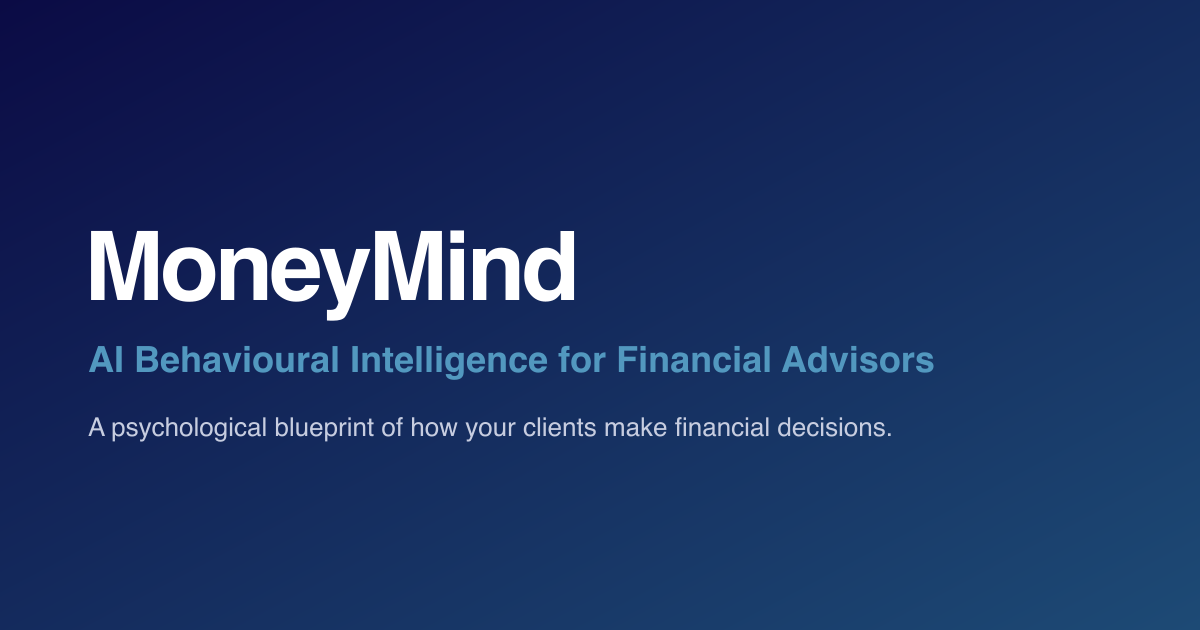
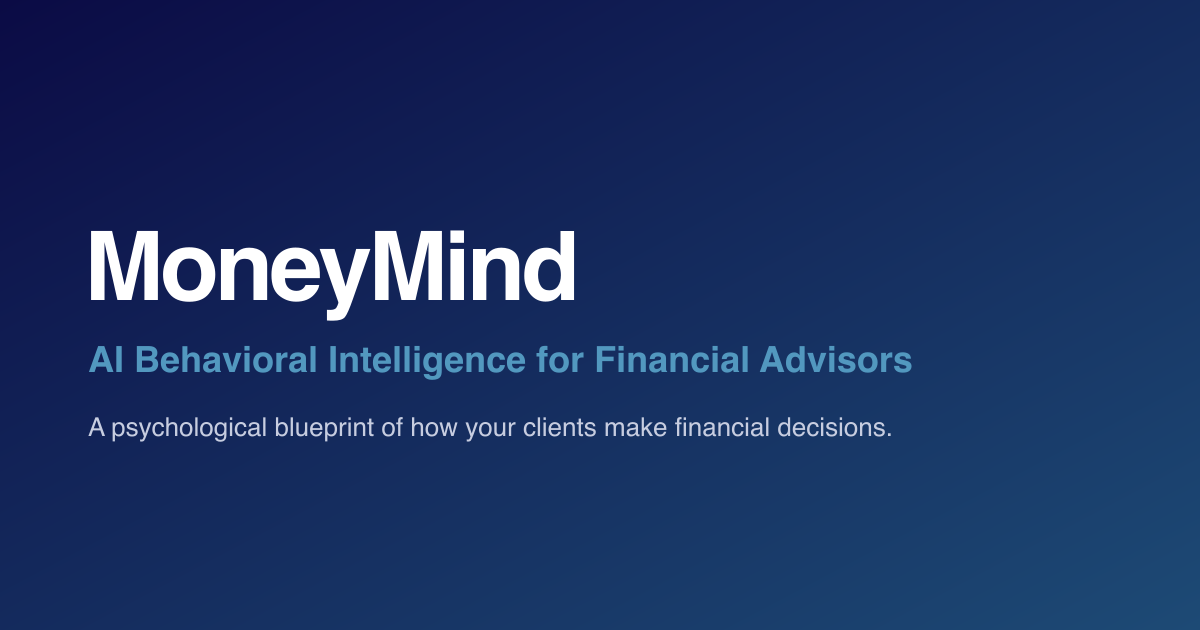
Show real app screenshots in the MoneyQuiz tab
Replace the hand-coded CSS phone mockups with two optimized screenshots
(MoneyPattern progress + action plan), each fitted to its own aspect
ratio inside the phone frame so nothing is cropped. Add the sources to
the image optimizer (avif/webp/jpg) and fix the OG card's spelling to
"Behavioral".

Changed region(s): [[0.2158, 0.5429, 0.8017, 0.6032]]

diff --git a/components/MoneyQuiz.jsx b/components/MoneyQuiz.jsx
@@ -1,40 +1,7 @@
-const Hex = ({ size = 22, fill = 'currentColor', stroke = 'none' }) => (
-  <svg width={size} height={size * 1.155} viewBox="0 0 100 115" aria-hidden="true" style={{ display: 'block' }}>
-    <polygon points="50,2 96,28.75 96,86.25 50,113 4,86.25 4,28.75" fill={fill} stroke={stroke} strokeWidth="1"/>
-  </svg>
-);
-
-const HexCluster = () => {
-  const tiles = [
-    { x: 0,  y: 28, fill: '#A8C8DD' },
-    { x: 22, y: 14, fill: '#A8C8DD' },
-    { x: 44, y: 0,  fill: 'var(--mm-blue-mid)' },
-    { x: 44, y: 28, fill: 'var(--mm-blue-deep)' },
-    { x: 66, y: 14, fill: 'transparent', stroke: '#C9D4DC' },
-  ];
-  return (
-    <div className="mm-mq-hex-cluster" aria-hidden="true">
-      {tiles.map((t, i) => (
-        <span key={i} className="mm-mq-hex-tile" style={{ left: `${t.x}px`, top: `${t.y}px` }}>
-          <Hex size={32} fill={t.fill} stroke={t.stroke || 'none'} />
-        </span>
-      ))}
-    </div>
-  );
-};
-
-const HexWatermark = () => (
-  <div className="mm-mq-hex-watermark" aria-hidden="true">
-    <span style={{ top: 0,  right: 28 }}><Hex size={56} fill="rgba(82, 152, 191, 0.28)" /></span>
-    <span style={{ top: 42, right: 56 }}><Hex size={56} fill="rgba(82, 152, 191, 0.18)" /></span>
-    <span style={{ top: 84, right: 14 }}><Hex size={56} fill="rgba(82, 152, 191, 0.22)" /></span>
-  </div>
-);
-
-const PhoneFrame = ({ tone = 'light', children, label }) => (
+const PhoneFrame = ({ tone = 'dark', children, label, ratio }) => (
   <div className={`mm-mq-phone tone-${tone}`} aria-label={label}>
     <div className="mm-mq-phone-bezel">
-      <div className="mm-mq-phone-screen">
+      <div className="mm-mq-phone-screen" style={ratio ? { aspectRatio: ratio } : undefined}>
         <div className="mm-mq-phone-island"></div>
         {children}
       </div>
@@ -42,94 +9,35 @@ const PhoneFrame = ({ tone = 'light', children, label }) => (
   </div>
 );
 
-const QuizProgressScreen = () => (
-  <div className="mm-mq-s1">
-    <header className="mm-mq-s1-top">
-      <span className="mm-mq-s1-time">10:23</span>
-      <span className="mm-mq-streak">4-day streak</span>
-      <span className="mm-mq-s1-dot" aria-hidden="true"></span>
-    </header>
-    <div className="mm-mq-s1-body">
-      <span className="mm-mq-s1-eyebrow">PATTERN EMERGING</span>
-      <h3 className="mm-mq-s1-title">The MoneyPattern<span className="tm">™</span></h3>
-      <HexCluster />
-      <div className="mm-mq-s1-counter">
-        <div>
-          <span className="num">0 of 14 questions</span>
-          <span className="lbl">RISK PROFILE · READY</span>
-        </div>
-        <span className="pct">0<i>%</i></span>
-      </div>
-      <ul className="mm-mq-stages">
-        <li className="mm-mq-stage done">
-          <span className="rule"></span>
-          <span className="name">Foundations</span>
-          <span className="state">COMPLETE</span>
-        </li>
-        <li className="mm-mq-stage done">
-          <span className="rule"></span>
-          <span className="name">Decision Making</span>
-          <span className="state">COMPLETE</span>
-        </li>
-        <li className="mm-mq-stage active">
-          <span className="rule"></span>
-          <span className="name">Risk Profile</span>
-          <span className="state">0 / 14<br/><i>READY</i></span>
-        </li>
-      </ul>
-      <div className="mm-mq-s1-insight">
-        <span className="mm-mq-s1-insight-dot"></span>
-        <p>
-          One final section. Your discipline reads unusually high —
-          <em> curious how you'll handle a 20% drop.</em>
-        </p>
-      </div>
-      <div className="mm-mq-s1-cta">Begin Risk Profile</div>
-      <div className="mm-mq-s1-link">Pause &amp; save</div>
-    </div>
-  </div>
-);
-
-const QuizDiscoveryScreen = () => (
-  <div className="mm-mq-s2">
-    <div className="mm-mq-s2-progress">
-      <span className="seg"></span>
-      <span className="seg full"></span>
-      <span className="seg full"></span>
-    </div>
-    <header className="mm-mq-s2-head">
-      <span className="mm-mq-s2-eyebrow">FOUNDATIONS · 1 OF 3</span>
-      <span className="mm-mq-s2-eyebrow">DISCOVERY · 1 OF 3</span>
-    </header>
-    <div className="mm-mq-s2-stat">
-      <span className="big">1</span>
-      <span className="in">in</span>
-      <span className="big">4</span>
-    </div>
-    <span className="mm-mq-s2-stat-sub">people in our research</span>
-    <HexWatermark />
-    <h3 className="mm-mq-s2-title">
-      You're in the rare combination — anxious <em>and</em> disciplined.
-    </h3>
-    <p className="mm-mq-s2-body">
-      Most score high on one or the other. You score high on <strong>both</strong>.
-    </p>
-    <div className="mm-mq-s2-source">
-      This pattern outperformed by <strong>1.8%</strong> annually. Vanguard 2023.
-    </div>
-    <div className="mm-mq-s2-next">NEXT</div>
-  </div>
+const PhoneShot = ({ src, alt }) => (
+  <picture>
+    <source srcSet={`${src}.avif`} type="image/avif" />
+    <source srcSet={`${src}.webp`} type="image/webp" />
+    <img
+      className="mm-mq-shot"
+      src={`${src}.jpg`}
+      alt={alt}
+      loading="lazy"
+      decoding="async"
+    />
+  </picture>
 );
 
 export default function MoneyQuiz() {
   return (
     <div className="mm-mq">
       <div className="mm-mq-stage-row">
-        <PhoneFrame tone="light" label="MoneyQuiz progress screen">
-          <QuizProgressScreen />
+        <PhoneFrame tone="dark" ratio="800 / 1566" label="MoneyMind app building a client's MoneyPattern">
+          <PhoneShot
+            src="/assets/opt/product/quiz-moneypattern"
+            alt="MoneyMind app building a client's MoneyPattern, showing progress through the four sections"
+          />
         </PhoneFrame>
-        <PhoneFrame tone="dark" label="MoneyQuiz discovery moment">
-          <QuizDiscoveryScreen />
+        <PhoneFrame tone="dark" ratio="800 / 1457" label="MoneyMind action plan screen">
+          <PhoneShot
+            src="/assets/opt/product/quiz-actionplan"
+            alt="MoneyMind app showing a client's personalized action plan"
+          />
         </PhoneFrame>
       </div>
     </div>

diff --git a/styles/globals.css b/styles/globals.css
@@ -471,6 +471,7 @@ a:hover { color: var(--mm-blue-light); }
 .mm-mq-phone.tone-light .mm-mq-phone-screen { background: #ffffff; color: #0F2747; }
 .mm-mq-phone.tone-dark .mm-mq-phone-screen { background: linear-gradient(180deg, #1D4A75 0%, #0F2747 100%); color: #ffffff; }
 .mm-mq-phone-island { position: absolute; top: 10px; left: 50%; transform: translateX(-50%); width: 92px; height: 26px; background: #0A0A0A; border-radius: 999px; z-index: 2; }
+.mm-mq-shot { position: absolute; inset: 0; width: 100%; height: 100%; object-fit: cover; object-position: 50% 0; display: block; }
 .mm-mq-s1 { position: relative; padding: 18px 22px 24px; height: 100%; display: flex; flex-direction: column; gap: 0; }
 .mm-mq-s1-top { display: flex; align-items: center; justify-content: space-between; padding: 14px 0 22px; font-family: var(--font-display); }
 .mm-mq-s1-time { font-size: 13px; font-weight: 600; color: #0F2747; }